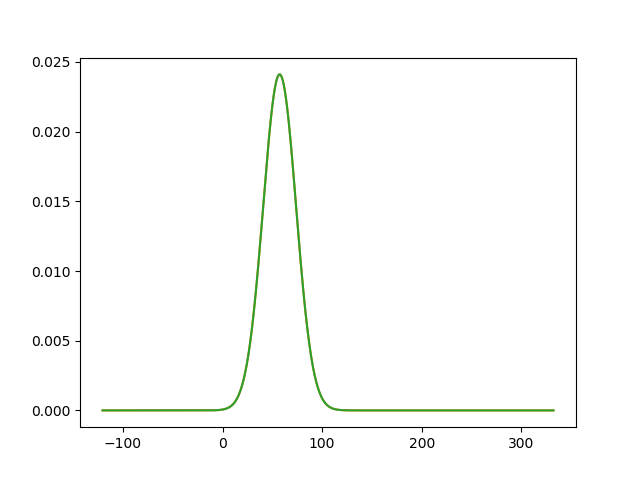
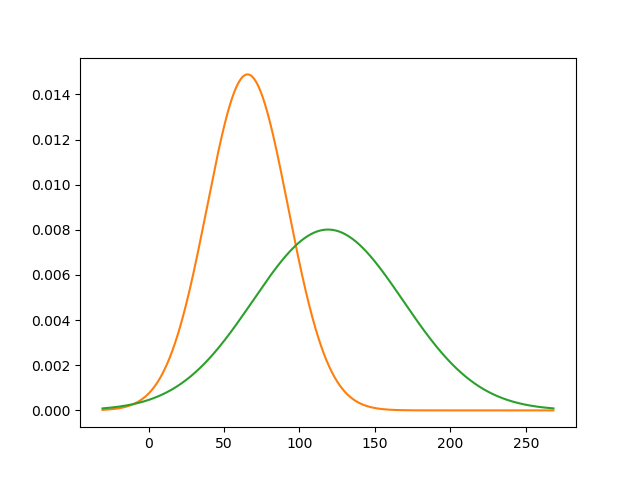
save

diff --git a/benchmarks/data_processing.py b/benchmarks/data_processing.py
@@ -68,8 +68,8 @@ def graph_normal(df):
     x_axis = np.arange(min(z_mean - 3*z_std, o_mean - 3*o_std), max(z_mean + 3*z_std, o_mean + 3*o_std), 0.001)
 
     plt.plot(x_axis, norm.pdf(x_axis, z_mean,z_std), 'C1', label='zero')
-    plt.plot(x_axis, norm.pdf(x_axis, z_mean,z_std), 'C2', label='one')
-    plt.savefig("save.png")
+    plt.plot(x_axis, norm.pdf(x_axis, o_mean,o_std), 'C2', label='one')
+    plt.savefig("save")
     plt.show()
     plt.close()
 
